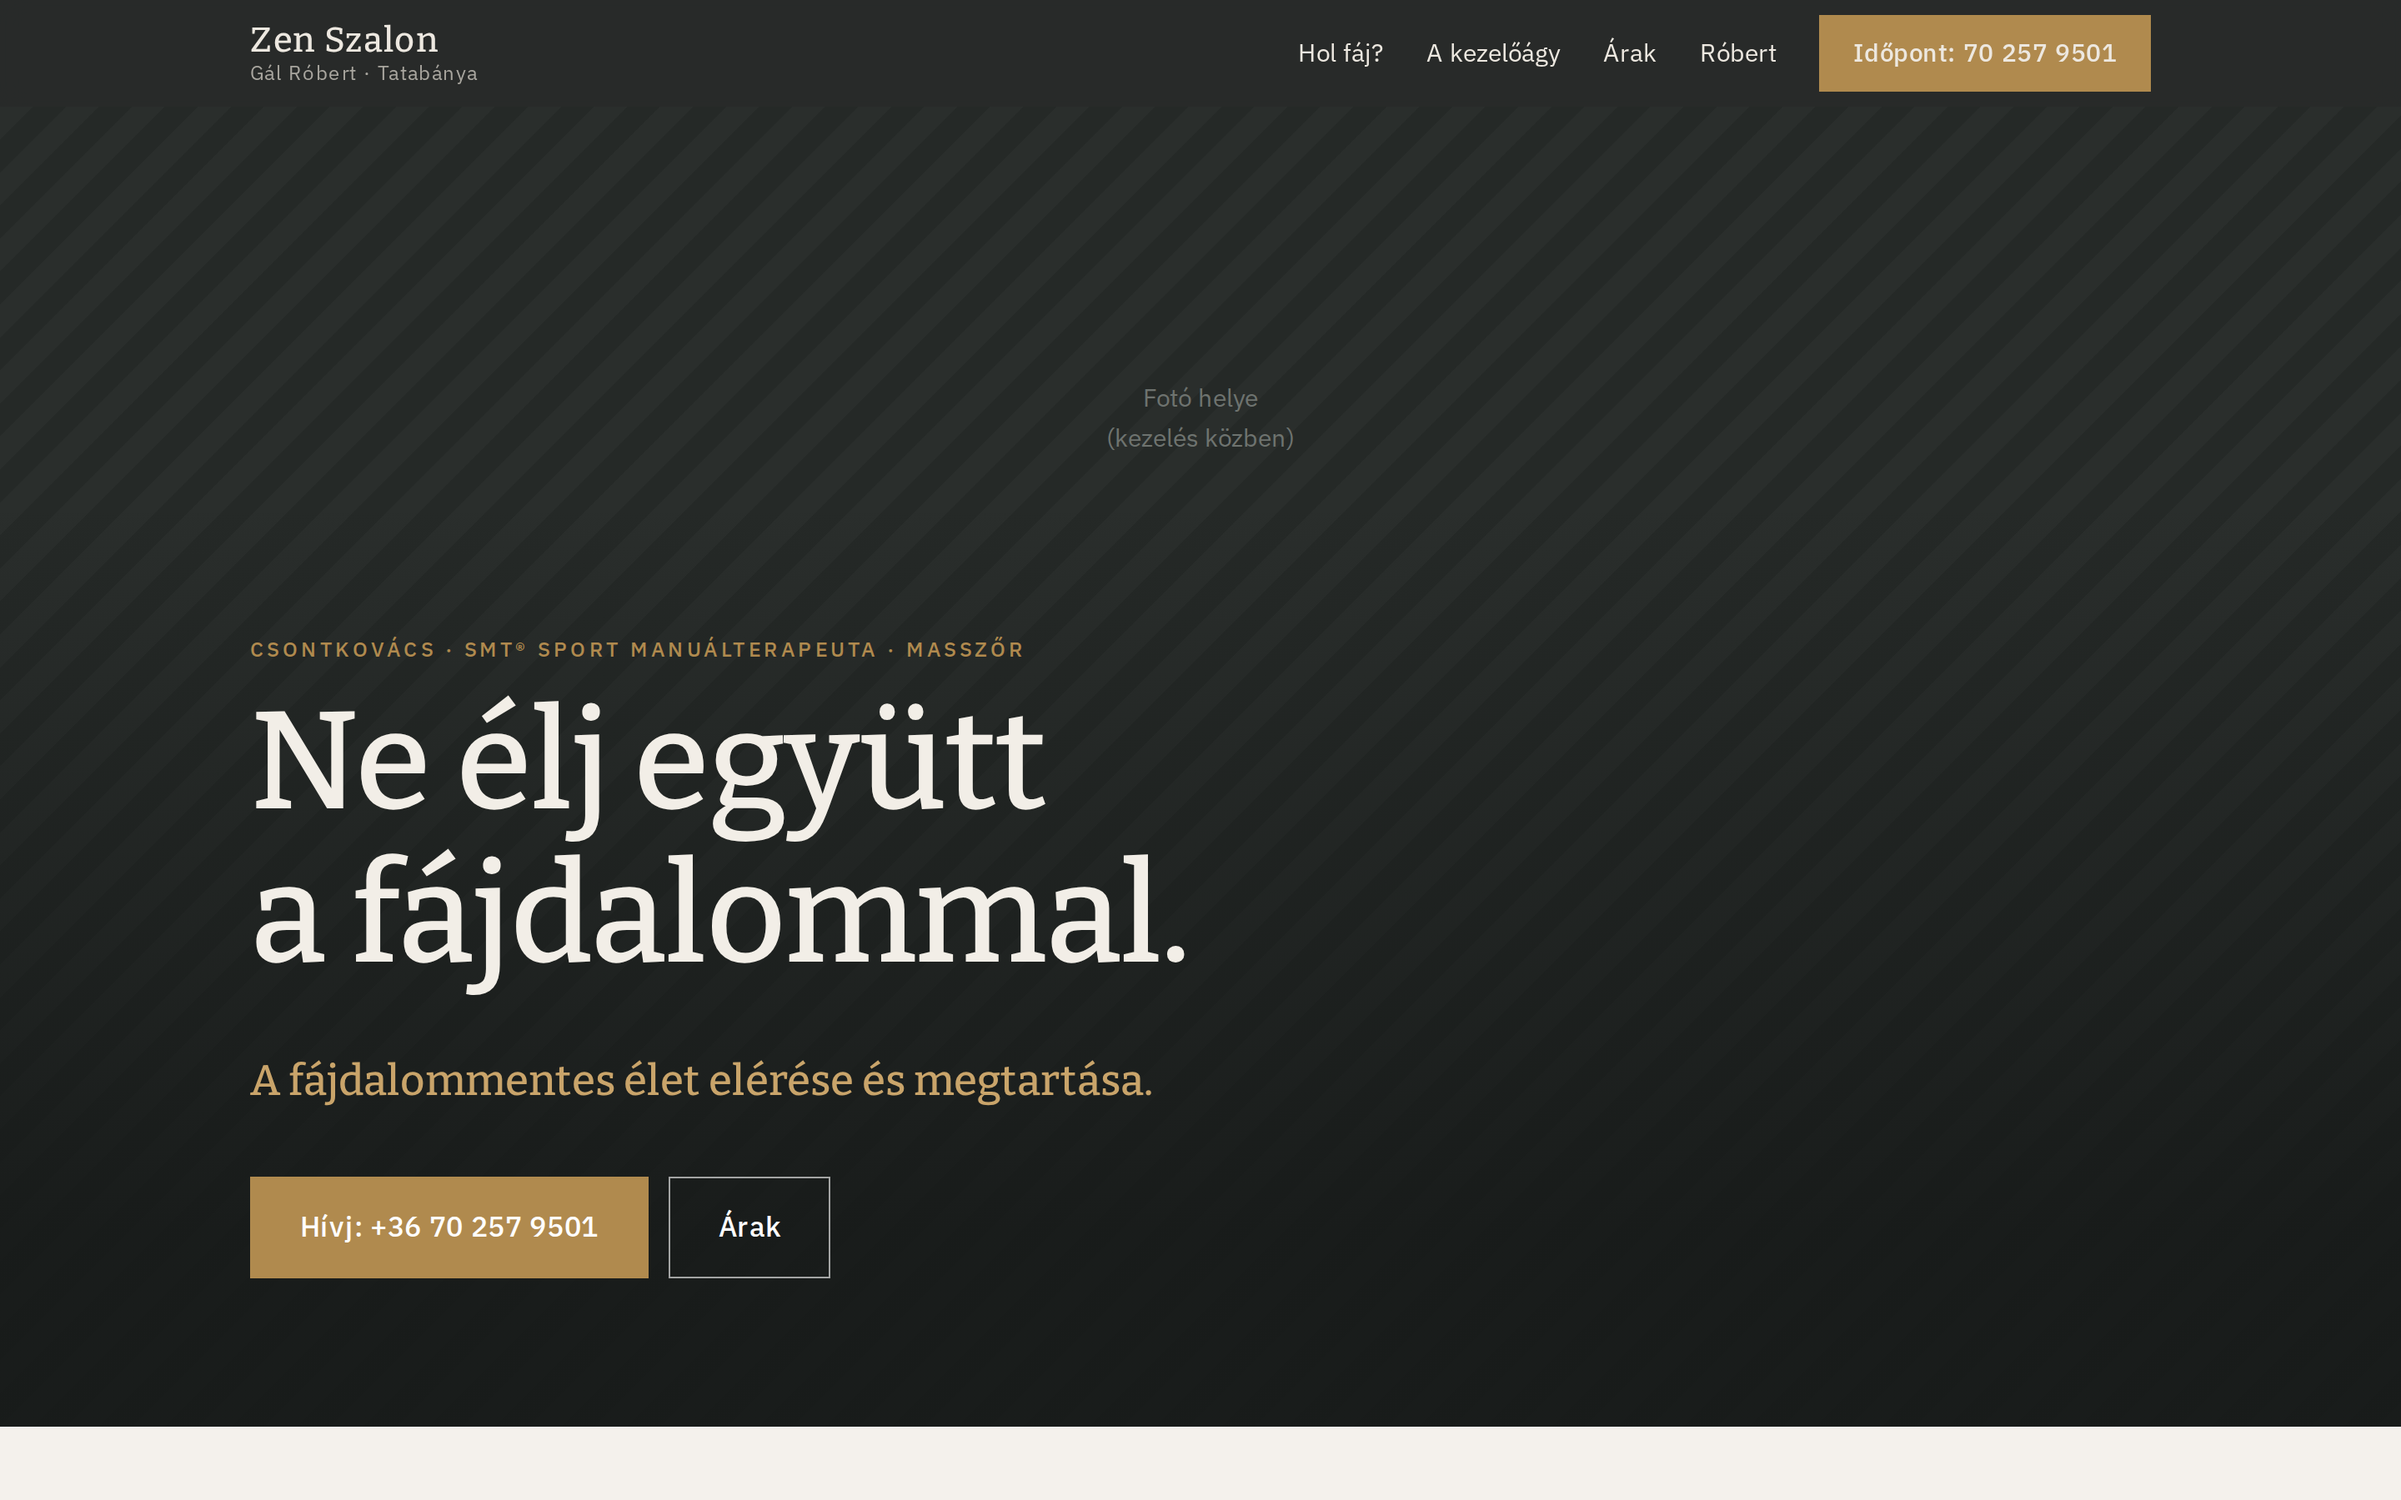
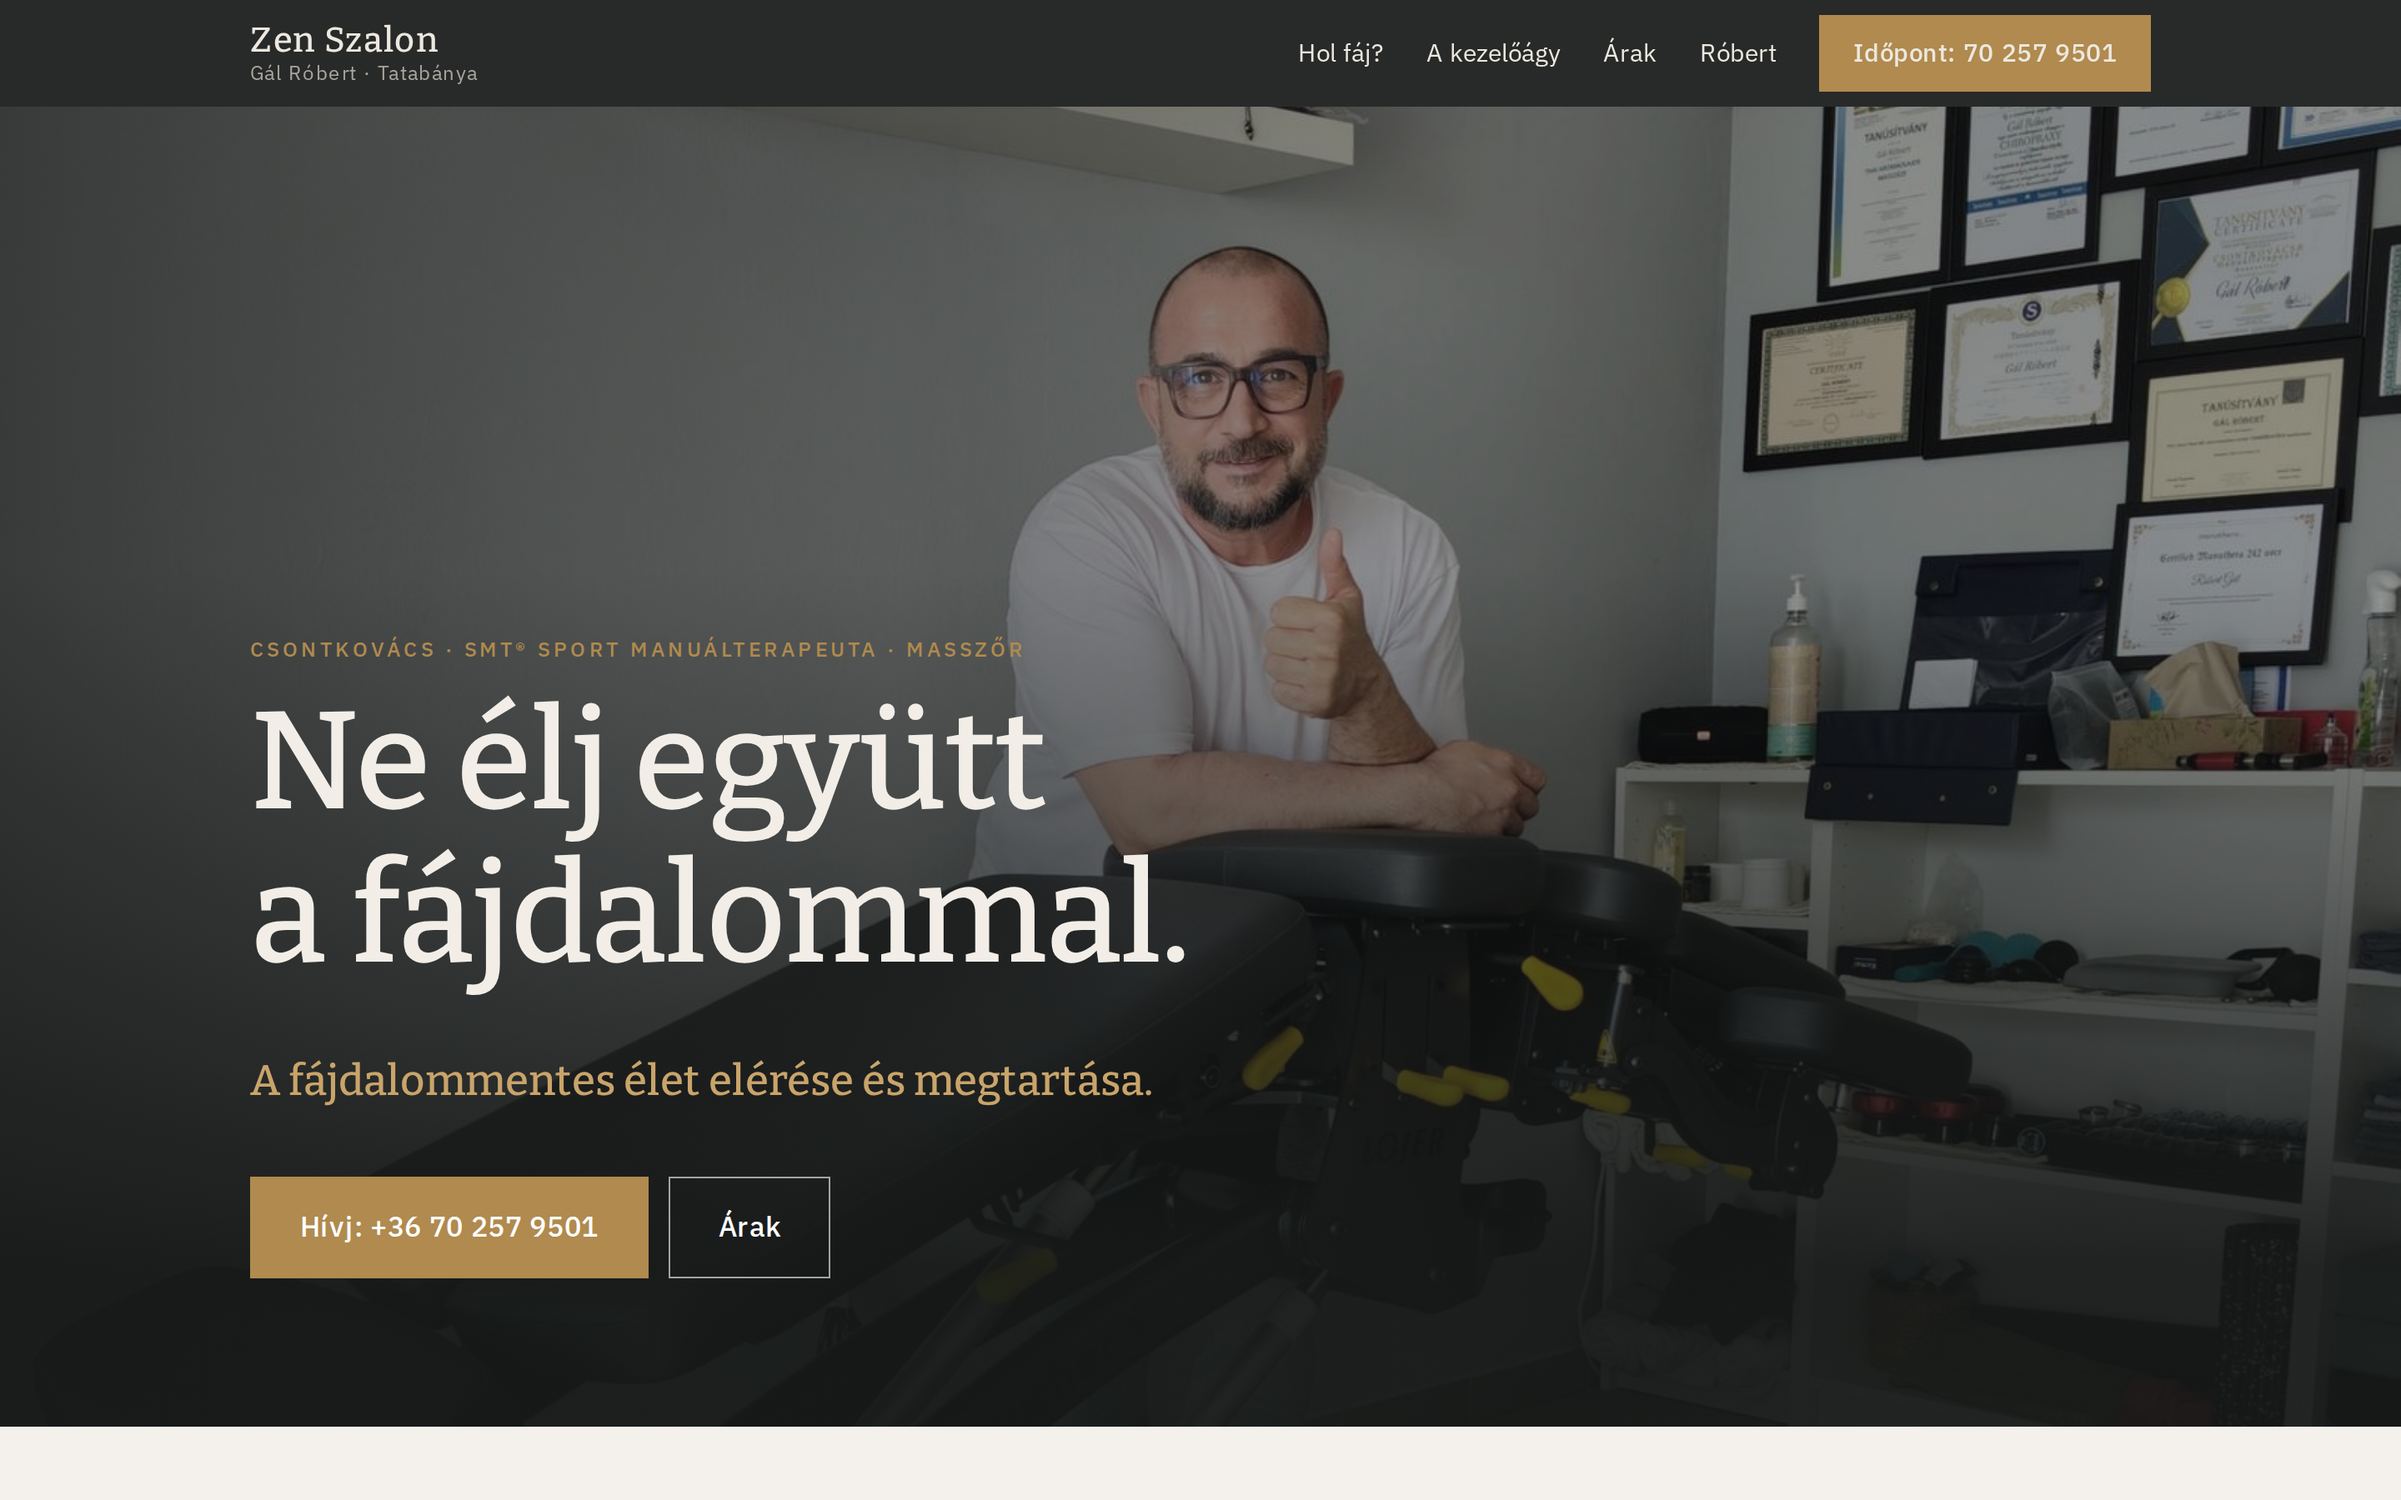
Zen Szalon demo: add Róbert's own photos
Hero, Lojer table, portrait and the Manuthera Lojer 242 promo replace the
placeholders; screenshots re-shot.

Claude-Session: https://claude.ai/code/session_01TELkCDLLP38S5Qi1WKFqYt

diff --git a/zen-szalon-tatabanya/index.html b/zen-szalon-tatabanya/index.html
@@ -45,8 +45,8 @@
 <main id="fo">
 
   <section class="hero">
-    <figure class="hero-img ph" aria-label="Fotó helye: kezelés vagy a rendelő">
-      <span>Fotó helye<br>(kezelés közben)</span>
+    <figure class="hero-img">
+      <img src="assets/img/hero-robert-lojer.jpg" alt="Gál Róbert a Manuthera Lojer 242 kezelőágy mellett a tatabányai rendelőben" width="1600" height="1927" fetchpriority="high">
     </figure>
     <div class="wrap hero-in">
       <p class="eyebrow">Csontkovács · SMT® sport manuálterapeuta · masszőr</p>
@@ -83,8 +83,8 @@
 
   <section id="lojer" class="sec sec-band">
     <div class="wrap split">
-      <figure class="ph ph-tall reveal" aria-label="Fotó helye: Manuthera Lojer 242 kezelőágy">
-        <span>Fotó a<br>Lojer kezelőágyról</span>
+      <figure class="photo ph-tall reveal">
+        <img src="assets/img/lojer-kezeloagy.jpg" alt="A Manuthera Lojer 242 kezelőágy a rendelőben" width="900" height="1200">
       </figure>
       <div class="reveal">
         <p class="eyebrow">A kezelőágy</p>
@@ -92,6 +92,11 @@
         <p class="big">Magyarországon két helyen érhető el. <strong>Az egyik itt van.</strong></p>
         <p>Európában is kevés helyen dolgoznak vele. A test megfelelő helyzetbe állításával a kezelés pontosabb, és kevesebb erő kell hozzá.</p>
       </div>
+    </div>
+    <div class="wrap">
+      <figure class="lojer-wide reveal">
+        <img src="assets/img/lojer-manuthera-242.jpg" alt="Manuthera Lojer 242: 3D mozgás, fájdalommentes kezelés, biztonság és stabilitás, ergonomikus kialakítás" width="1400" height="933">
+      </figure>
     </div>
   </section>
 
@@ -126,8 +131,8 @@
         <p class="big">A fájdalom nem része az életnek.</p>
         <p>Modern és hagyományos manuálterápiás módszereket ötvözök. Nem sablonból dolgozom: előbb megnézem, honnan jön a fájdalom, aztán kezelem.</p>
       </div>
-      <figure class="ph ph-tall reveal" aria-label="Fotó helye: portré">
-        <span>Portré<br>Róbertről</span>
+      <figure class="photo ph-tall reveal">
+        <img src="assets/img/robert-portre.jpg" alt="Gál Róbert a rendelőben, mögötte a képesítései" width="900" height="1200">
       </figure>
     </div>
   </section>

diff --git a/zen-szalon-tatabanya/styles.css b/zen-szalon-tatabanya/styles.css
@@ -48,8 +48,13 @@ p { margin: 0 0 1em; }
 
 .hero { position: relative; min-height: 88vh; display: flex; align-items: flex-end; background: var(--dark); color: #F2EEE7; overflow: hidden; }
 .hero-img { position: absolute; inset: 0; border: 0; background: repeating-linear-gradient(135deg, #2A2E2C 0 14px, #252927 14px 28px); color: #6E736F; align-items: start; padding-top: 18vh; }
-.hero-img img { width: 100%; height: 100%; object-fit: cover; }
-.hero::after { content: ''; position: absolute; inset: 0; background: linear-gradient(180deg, rgba(22,25,24,0) 30%, rgba(22,25,24,.85) 85%); }
+.hero-img { margin: 0; padding: 0; display: block; }
+.hero-img img { width: 100%; height: 100%; object-fit: cover; object-position: 50% 28%; filter: brightness(.72) saturate(.9); }
+.photo { margin: 0; overflow: hidden; background: var(--band); }
+.photo img { width: 100%; height: 100%; object-fit: cover; display: block; }
+.lojer-wide { margin: 64px 0 0; }
+.lojer-wide img { width: 100%; height: auto; display: block; }
+.hero::after { content: ''; position: absolute; inset: 0; background: linear-gradient(90deg, rgba(22,25,24,.75) 0%, rgba(22,25,24,.2) 60%), linear-gradient(180deg, rgba(22,25,24,0) 35%, rgba(22,25,24,.9) 88%); }
 .hero-in { position: relative; z-index: 1; padding: 0 0 72px; }
 .hero .lede { font-family: var(--serif); font-size: clamp(1.2rem, 2.2vw, 1.6rem); color: var(--gold-l); margin-bottom: 1.4em; }
 .cta-row { display: flex; flex-wrap: wrap; gap: 12px; }

diff --git a/zen-szalon-tatabanya/README.md b/zen-szalon-tatabanya/README.md
@@ -16,5 +16,6 @@ Valós adat: árlista (webnode Árlista oldal), öt terület (térd, derék, nya
 „minden ember más” elv, időpont telefonon egyeztetve.
 Saját javaslat: a területek egysoros leírásai, a Lojer-ágy második mondata, a „Ne várd meg” zárás.
 
-**Fotók még hiányoznak**: a 6 csatolmányt a Gmail-eszköz nem tudja letölteni. Ha Vince elmenti őket a
-projektmappába, a szaggatott keretek helyére kerülnek (hero, Lojer-ágy, portré), és újra kell fotózni.
+**Fotók (2026-09-27):** Róbert saját képei, `assets/img/`-ben optimalizálva: hero = hüvelykujj a Lojer-ágynál,
+Lojer szekció = álló kép az ággyal + a Manuthera Lojer 242 promó grafika, portré = szelfi a képesítés-fal előtt.
+A ZEN logó-bannert (röntgen-Buddha) és a négyzetes promót nem használtuk; a jelmondatát („Ne élj együtt a fájdalommal”) igen.
